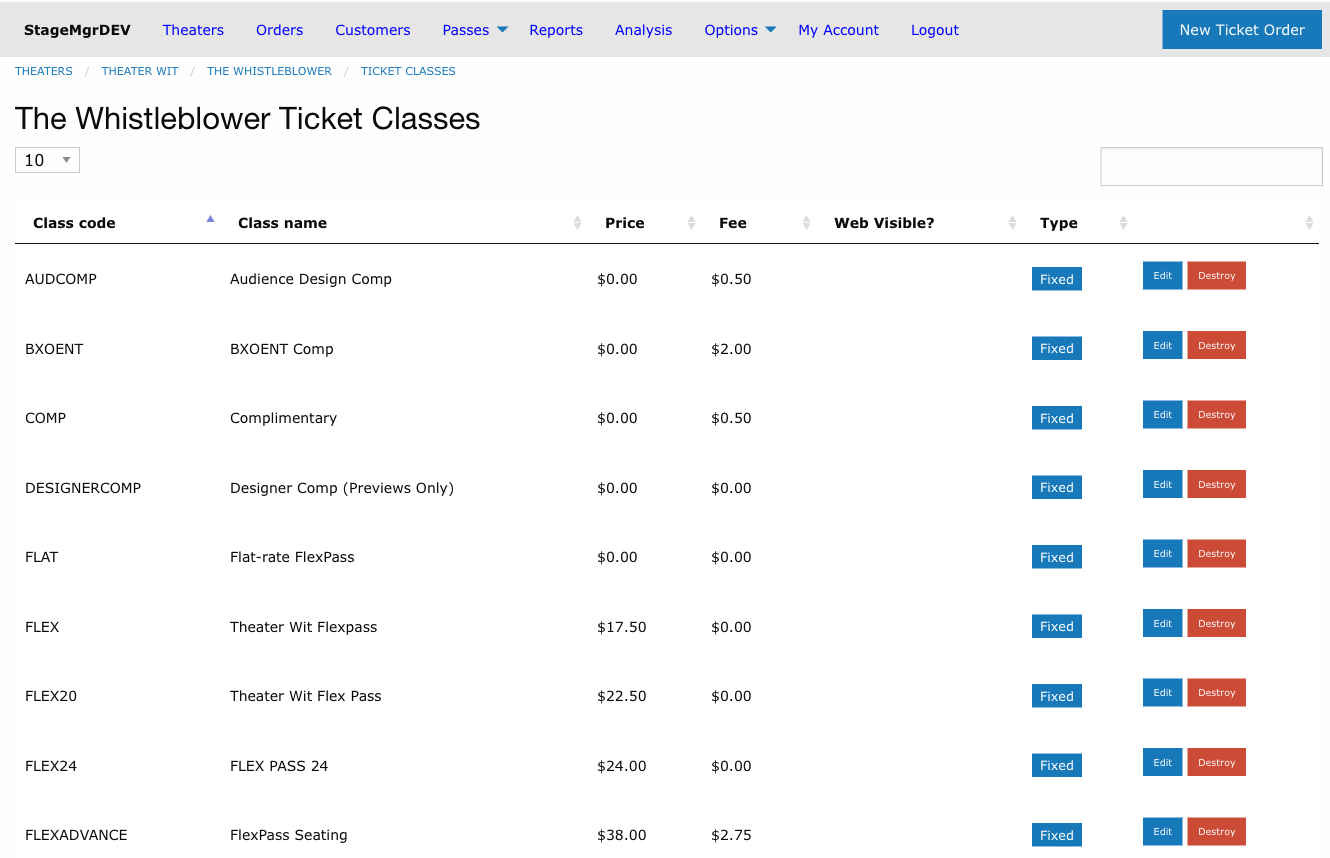
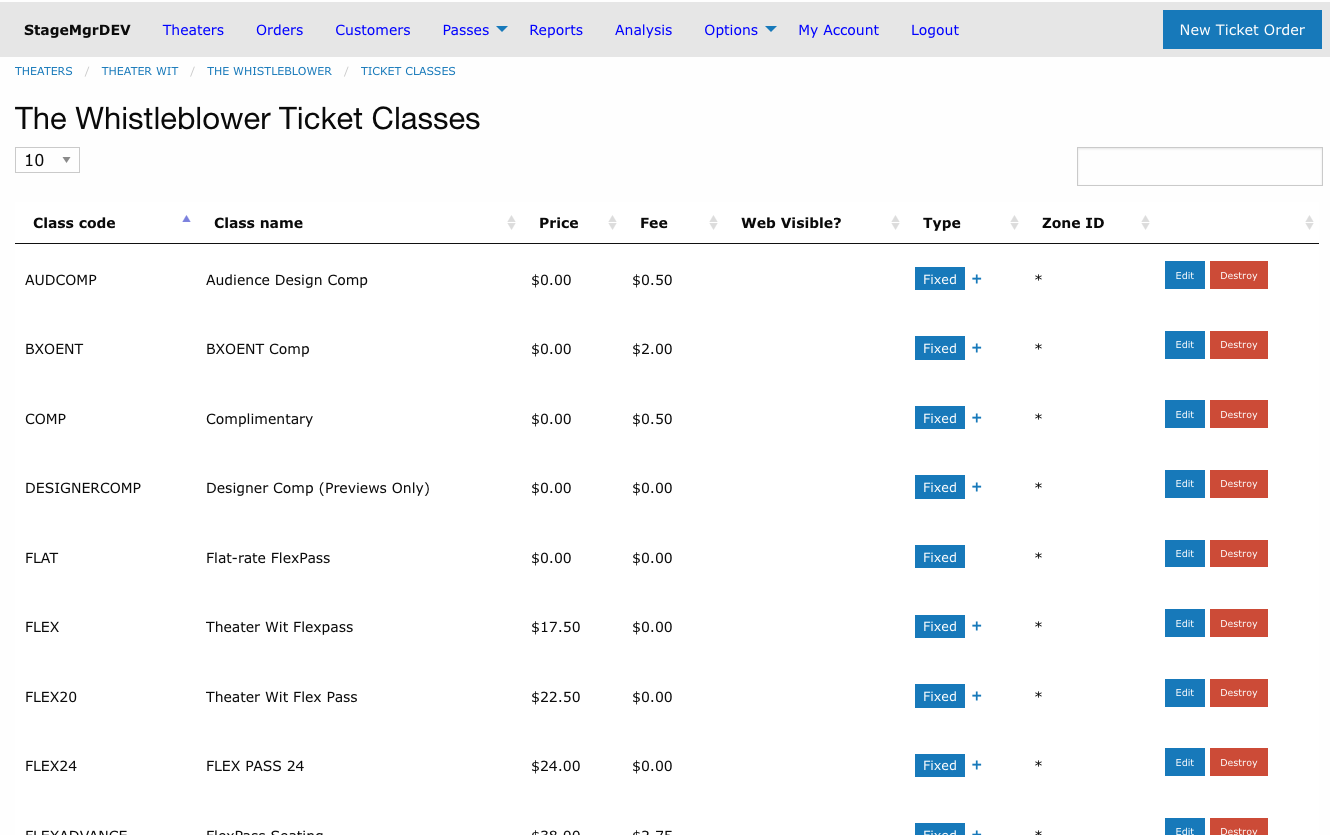
feat: Zone ID column and auto-attach marker on the ticket class list
Add a Zone ID column to the admin ticket class datatable (sortable and
searchable) and a blue + marker after the Type label identifying
auto-attaching ticket classes, with a tooltip explaining its meaning.
Document the marker in the user manual and refresh the ticket classes
list screenshot to show both additions.

diff --git a/app/assets/stylesheets/foundation_and_overrides.scss b/app/assets/stylesheets/foundation_and_overrides.scss
@@ -54,3 +54,10 @@
 //
 // @include motion-ui-transitions;
 // @include motion-ui-animations;
+
+// Auto-attach marker in the ticket-class Type column: match the "info" label blue
+// ($label-background falls back to $primary-color when no palette color is set).
+.auto-attach-indicator {
+  color: $primary-color;
+  font-weight: bold;
+}

diff --git a/app/decorators/ticket_class_decorator.rb b/app/decorators/ticket_class_decorator.rb
@@ -28,12 +28,20 @@ class TicketClassDecorator < ApplicationDecorator
   end
 
   def ticket_type
-    h.raw(make_label(object.ticket_type) + (object.minutes_before_show.blank? ? '' : make_label(" #{object.minutes_before_show} minutes before")))
+    h.raw(make_label(object.ticket_type) +
+      (object.minutes_before_show.blank? ? '' : make_label(" #{object.minutes_before_show} minutes before")) +
+      auto_attach_indicator)
   end
 
   private
 
   def make_label(value)
     "<span class=\"label info\">#{value}</span>"
+  end
+
+  def auto_attach_indicator
+    return '' unless object.auto_attach?
+
+    ' <span class="auto-attach-indicator" title="Added automatically to orders">＋</span>'
   end
 end

diff --git a/app/datatables/ticket_class_datatable.rb b/app/datatables/ticket_class_datatable.rb
@@ -9,6 +9,7 @@ class TicketClassDatatable < DatatableBase
       ticketing_fee: { source: 'TicketClass.ticketing_fee', searchable: false },
       web_visible: { source: 'TicketClass.web_visible', searchable: false },
       ticket_type: { source: 'TicketClass.ticket_type' },
+      zone_id: { source: 'TicketClass.zone_id' },
       actions: { orderable: false, searchable: false }
     }
   end
@@ -23,6 +24,7 @@ class TicketClassDatatable < DatatableBase
         ticketing_fee: ticket_class.decorate.ticketing_fee,
         web_visible: ticket_class.decorate.web_visible?,
         ticket_type: ticket_class.decorate.ticket_type,
+        zone_id: ticket_class.zone_id,
         actions: ticket_class.decorate.dt_actions,
         DT_RowID: ticket_class.id
       }

diff --git a/docs/manual/productions/ticket-classes.md b/docs/manual/productions/ticket-classes.md
@@ -149,6 +149,8 @@ Only applicable when **Ticket Type** is set to **Timed**. Enter the number of mi
 
 When checked, this ticket class is automatically included in the allocation table for **every new performance** created for this production. When unchecked, the class must be manually added to each performance's allocations.
 
+Auto-attaching classes are flagged in the ticket classes list: a blue **＋** marker appears after the type tag in the **Type** column. Hover over the marker to see the tooltip "Added automatically to orders." Classes without the marker must be added to performances manually.
+
 !!! tip "When to Use Auto Attach"
     Enable auto attach for ticket classes that apply to every performance (e.g., General Admission, Senior). Disable it for special one-off classes (e.g., Opening Night VIP) that only apply to specific performances.
 